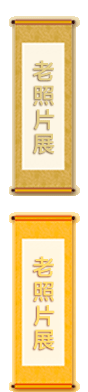
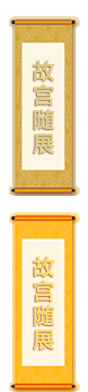
update: old photos

Changed region(s): [[0.3636, 0.6429, 0.6364, 0.8571], [0.3636, 0.1531, 0.6364, 0.3367]]

diff --git a/content/themes/gugong/template-help-center.php b/content/themes/gugong/template-help-center.php
@@ -27,7 +27,7 @@ get_header()
 					<dt>优惠活动</dt>
 					<dd><a href="how-to-use-coupons">代金券</a></dd>
 					<dt><a href="contact-us">联系我们</a></dt>
-					<dt><a href="partner-sites">友情链接</a></dt>
+					<!-- <dt><a href="partner-sites">友情链接</a></dt> -->
 				</dl>
 			</div>
 

diff --git a/content/themes/gugong/category-list.php b/content/themes/gugong/category-list.php
@@ -41,7 +41,7 @@ $list = array(
     // ),
     array(
         'link'  => 'old-photos',
-        'name'  => '老照片展',
+        'name'  => '故宫随展',
     ),
 );
 
